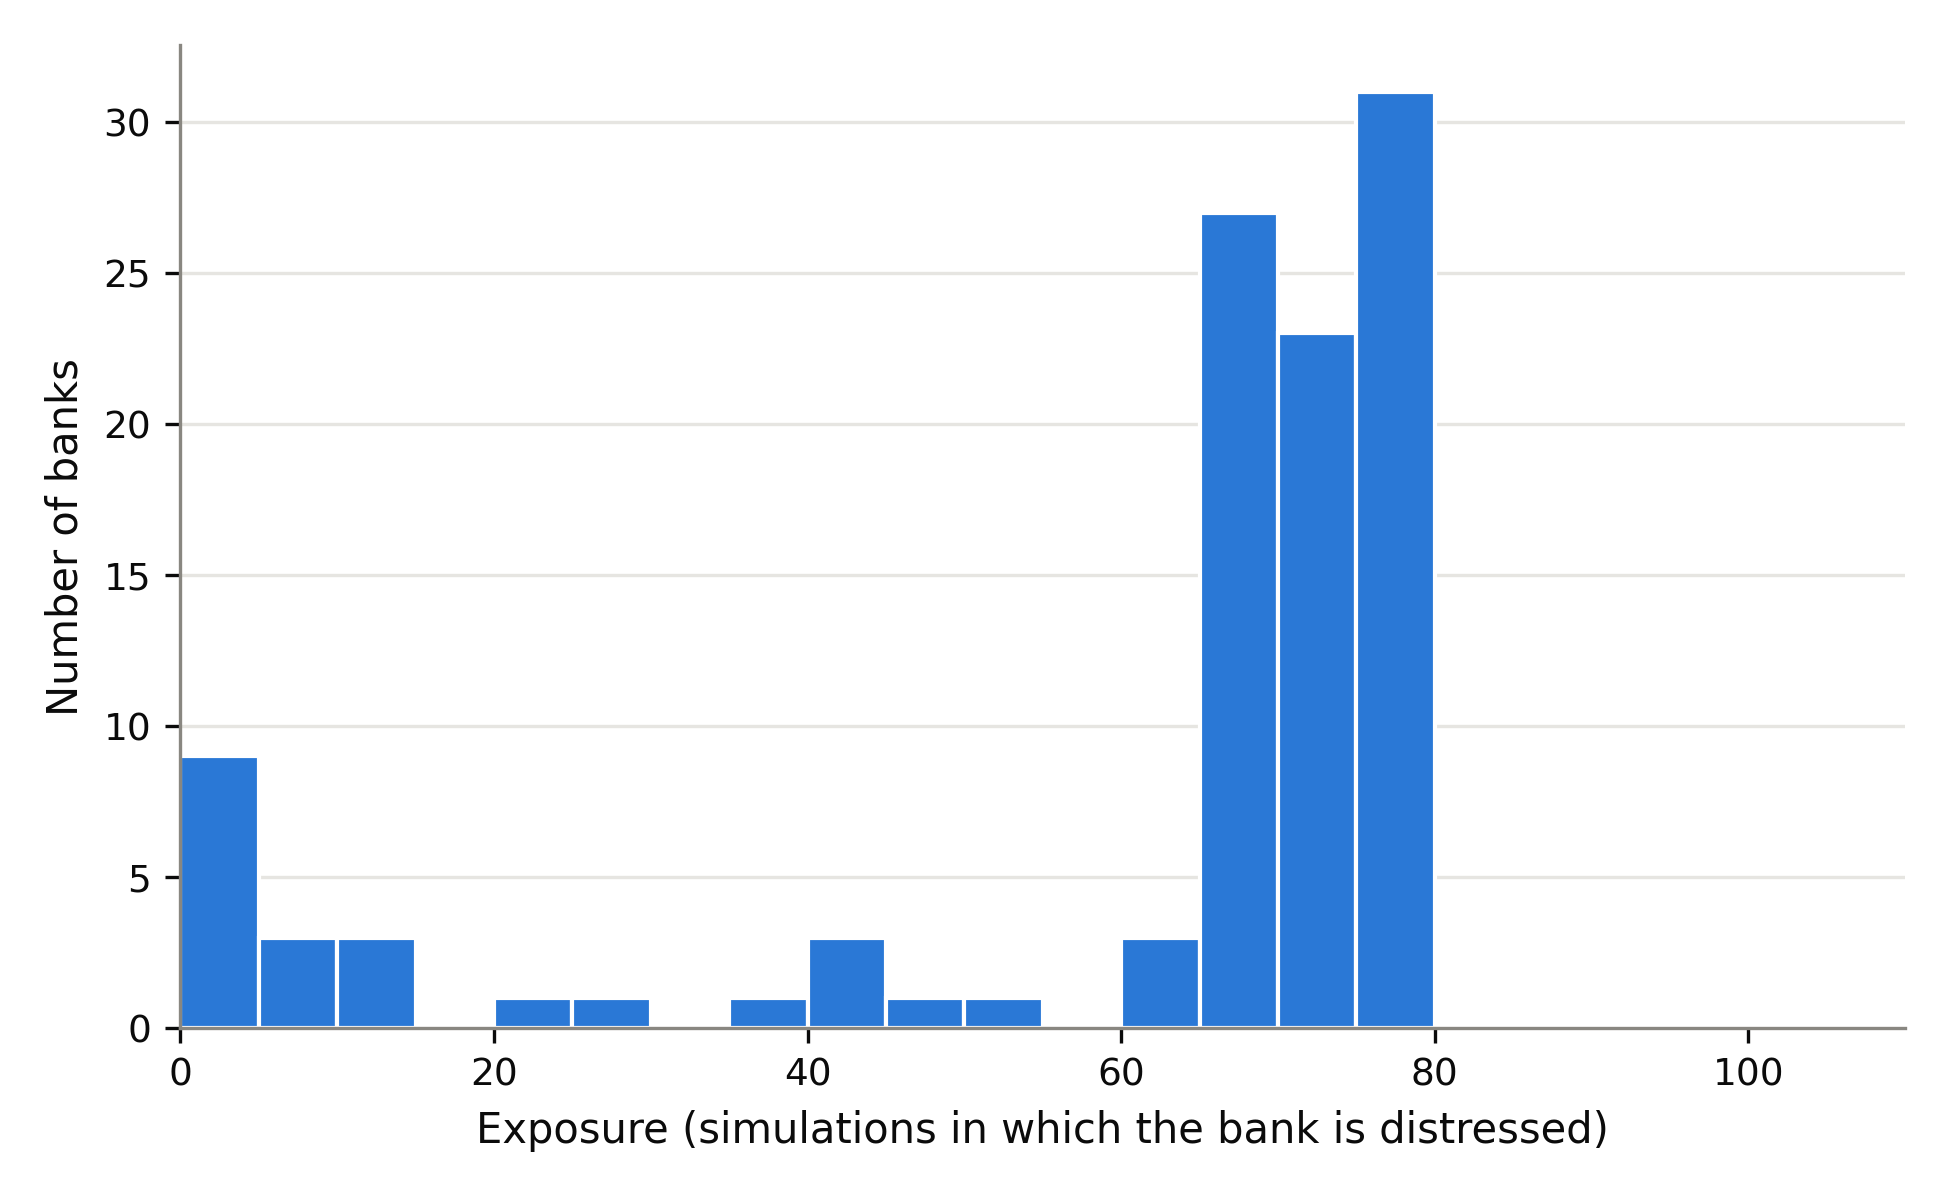
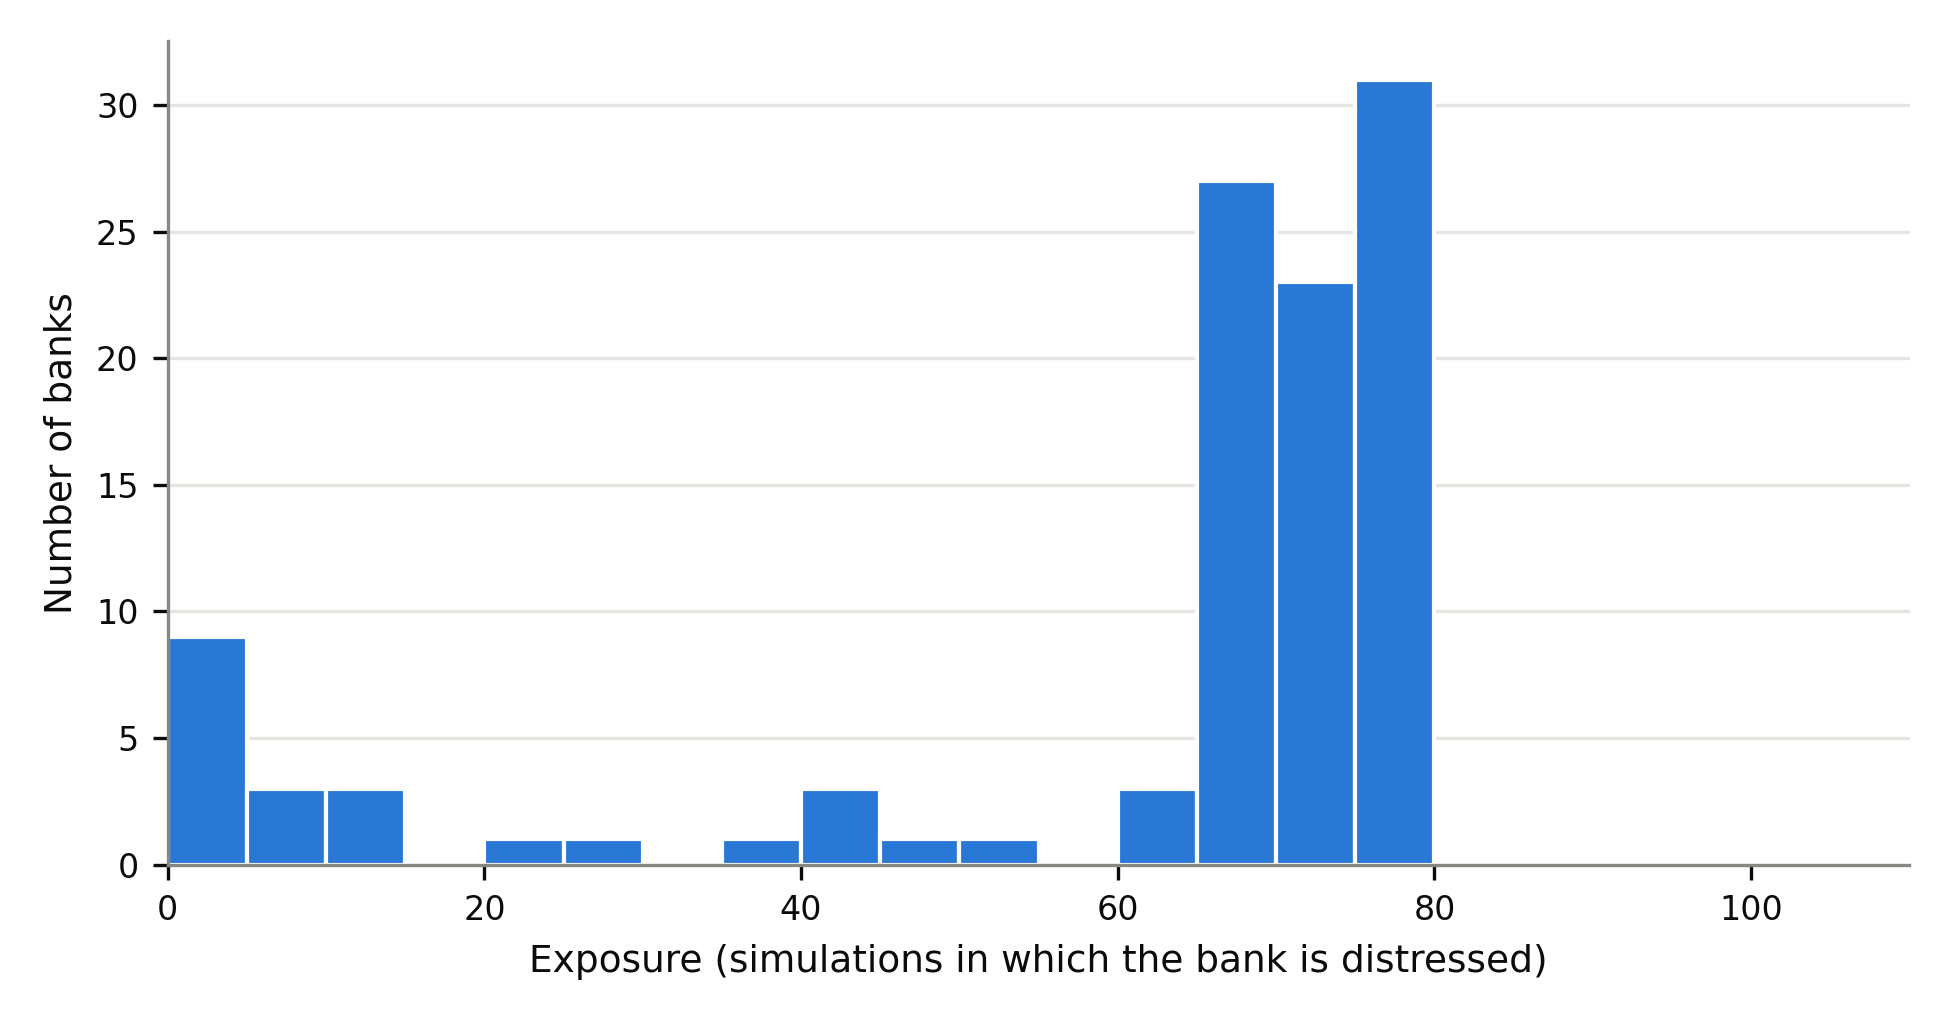
Regenerate outputs and figures

diff --git a/output/results_report.md b/output/results_report.md
@@ -3,7 +3,7 @@
 ## 1. Run summary
 
 - Date: 2026-10-27
-- Git commit (code): `e19ae586d10d2d468c4996bcea8dbb832413a817` on branch `final-analysis`
+- Git commit (code): `e2fd3a800146c95d82b7c6900a7f600d84d25baf` on branch `final-analysis`
 - Number of banks: 107 (pairs: 5671)
 - Mapping: logistic, f(s) = 1 / (1 + exp(-10(s - s0))); robustness linear 0.5*s and convex s^2
 - s0 (median off-diagonal similarity) = 0.6508
@@ -409,10 +409,12 @@ Values used: n = 107 banks, s0 = 0.6508, tau = 0.9442, strong-link cut-off = 0.8
 
 ## 8. Figures
 
-- `output/figures/total_reach_hist.png`: Histogram of total reach across the 107 trigger banks (main spec), 5-bank bins.
-- `output/figures/exposure_hist.png`: Histogram of exposure across the 107 banks (main spec), 5-simulation bins.
-- `output/figures/centrality_vs_indirect.png`: Four-panel scatter of each strong-link centrality measure against indirect reach (main spec).
-- `output/figures/top10_direct_indirect.png`: Stacked bars of direct and indirect reach for the top-10 banks by total reach, including all banks tied at 10th place (main spec).
+- `output/figures/fig4_1_reach_all_triggers.png`: Direct and indirect reach of all 107 trigger banks, sorted by total reach; the grey band marks triggers whose cascade never starts.
+- `output/figures/fig4_2_exposure_all_banks.png`: Exposure of all 107 banks, sorted from most to least exposed; grey bars are banks never distressed.
+- `output/figures/fig4_3_centrality_vs_indirect.png`: Four-panel scatter of each strong-link centrality measure against indirect reach, with Spearman and partial rho in each panel; hollow markers have indirect reach 0.
+- `output/figures/total_reach_hist.png`: Histogram of total reach across the 107 trigger banks, 5-bank bins.
+- `output/figures/exposure_hist.png`: Histogram of exposure across the 107 banks, 5-simulation bins.
+- `output/figures/top10_direct_indirect.png`: Stacked bars of direct and indirect reach for the top-10 banks by total reach, including all banks tied at 10th place.
 
 ## 9. Plain-English summary
 
